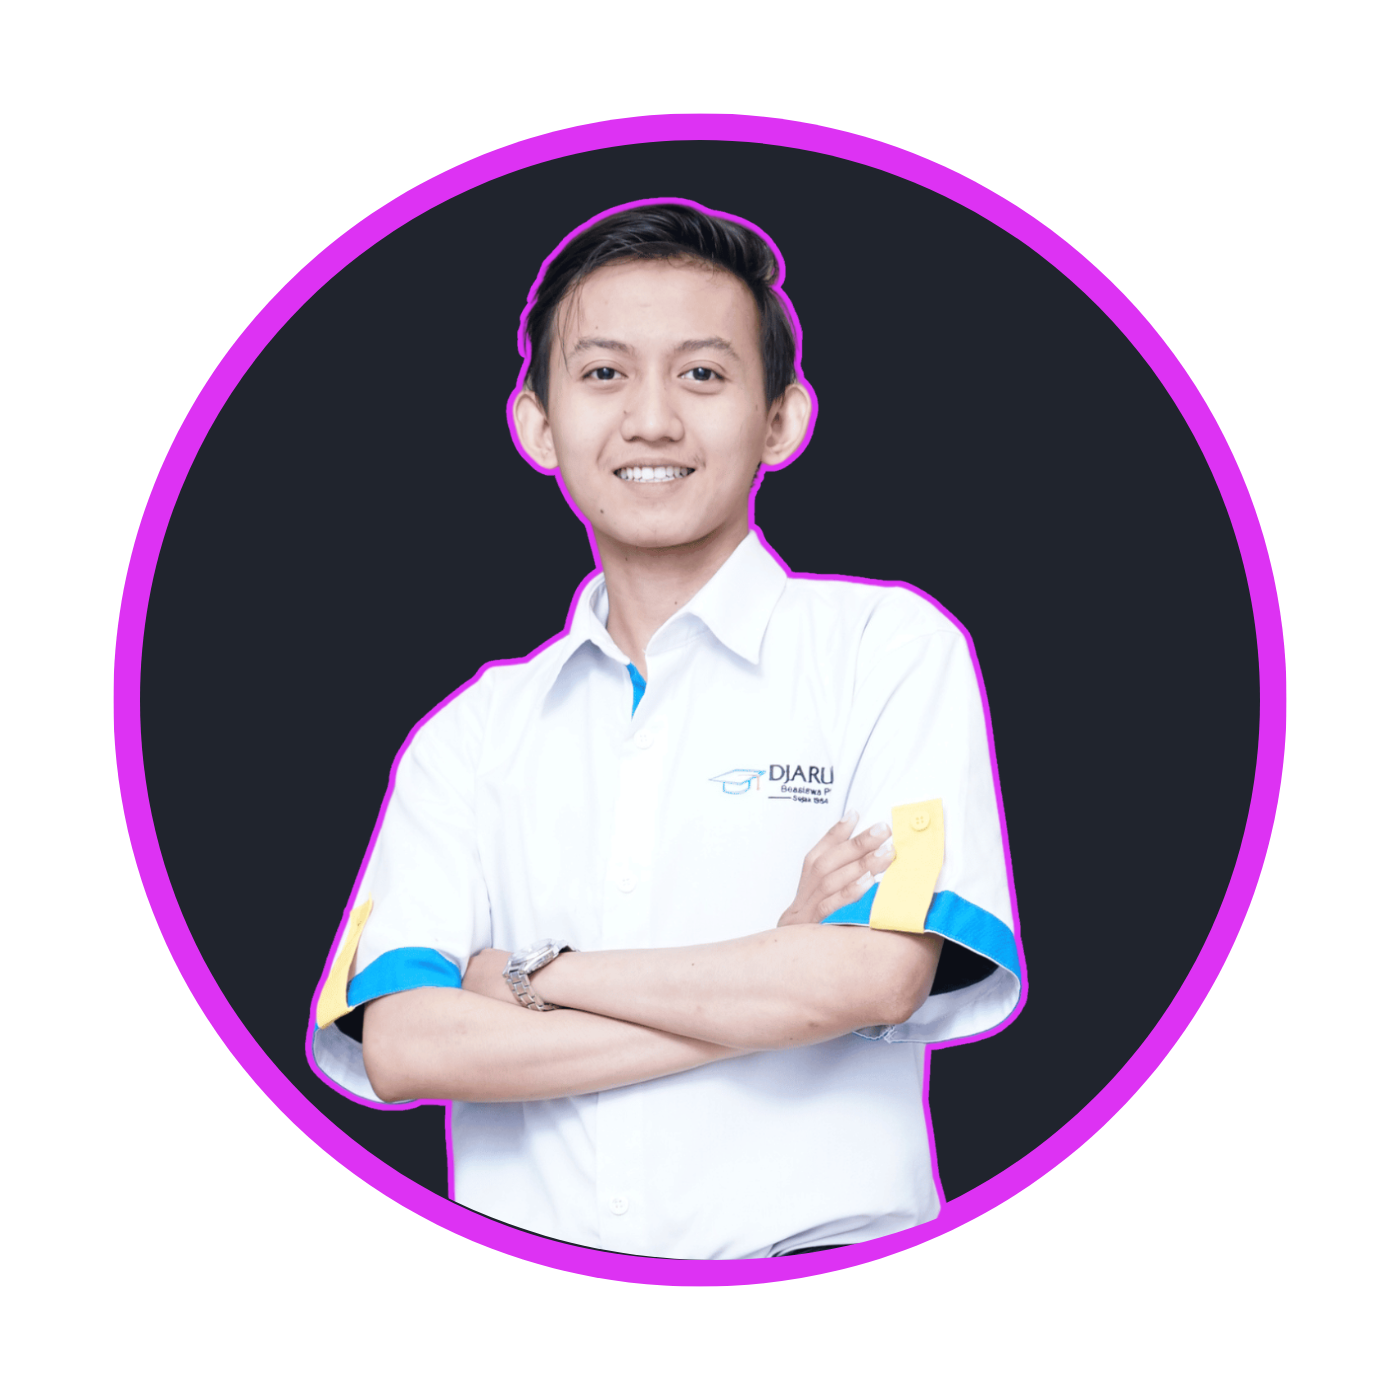
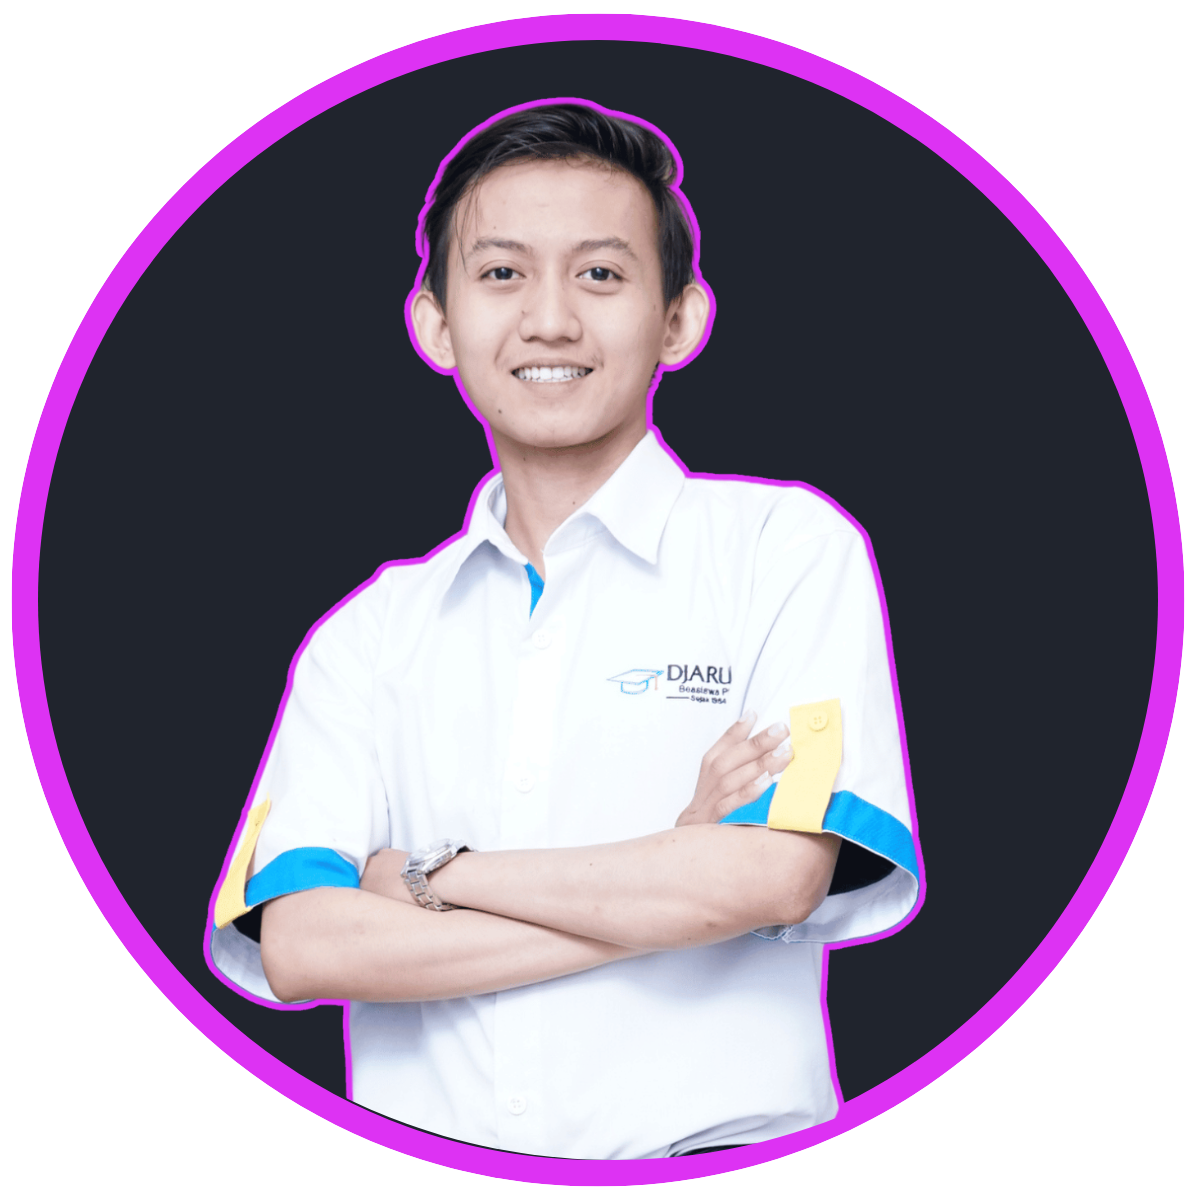
Progress Website  Portfolio : Progress Hero Section

diff --git a/src/Components/Fragments/Navbar.jsx b/src/Components/Fragments/Navbar.jsx
@@ -19,7 +19,7 @@ const Navbar = () => {
     ];
 
     return (
-        <div className='w-full left-0 z-50 top-0 py-7'>
+        <div className='w-full left-0 z-50 top-0 py-7 mx-auto max-w-[1200px]'>
             <div className="flex justify-between items-center px-6">
                 {/* Logo */}
                 <img src={Logo} className='w-[100px] md:w-[120px]' />
@@ -36,7 +36,6 @@ const Navbar = () => {
                     {nav ? <AiOutlineClose size={25} /> : <AiOutlineMenu size={25} />}
                 </div>
             </div>
-
             {/* Mobile Menu */}
             <div className={`fixed left-0 top-0 w-[60%] h-full bg-gray-900 text-white p-5 ease-in-out duration-300 ${nav ? 'translate-x-0' : '-translate-x-full'}`}>
                 <div className="flex justify-between items-center">

diff --git a/src/Components/Fragments/Hero.jsx b/src/Components/Fragments/Hero.jsx
@@ -1,8 +1,20 @@
 import React from 'react'
+import PictureHero from '../../assets/Picture/Hero.png'
 
-function Hero() {
+const Hero = () => {
   return (
-    <div>Hero</div>
+    <div>
+      <div className='bg-white max-w-[1200px] h-[80vh] mx-auto flex flex-col-reverse sm:flex-row justify-center align-center'>
+        <div className="text-8xl">
+          Text
+        </div>
+        <div className="my-auto">
+          <img src={PictureHero} alt="HeroPicture" 
+          className='w-[300px] sm:w-[500px] mx-auto h-auto rounded-full'/>
+        </div>
+
+      </div>
+    </div>
   )
 }
 
